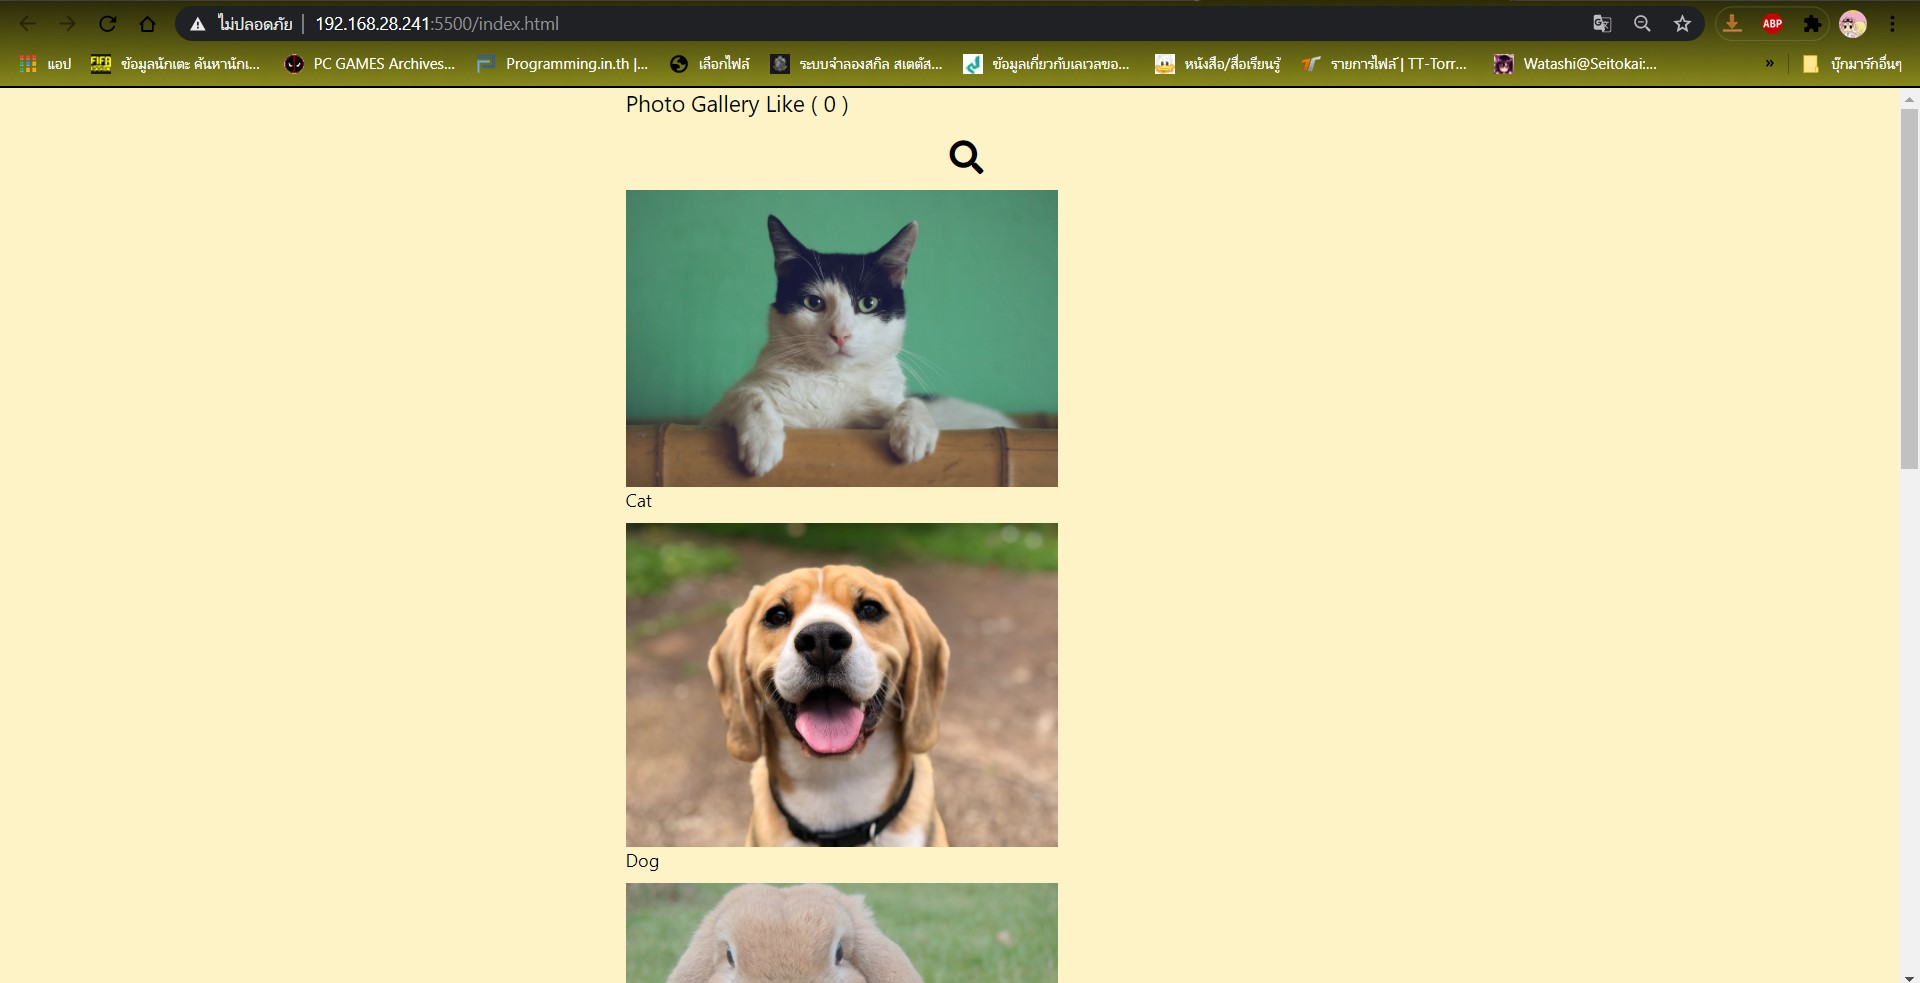
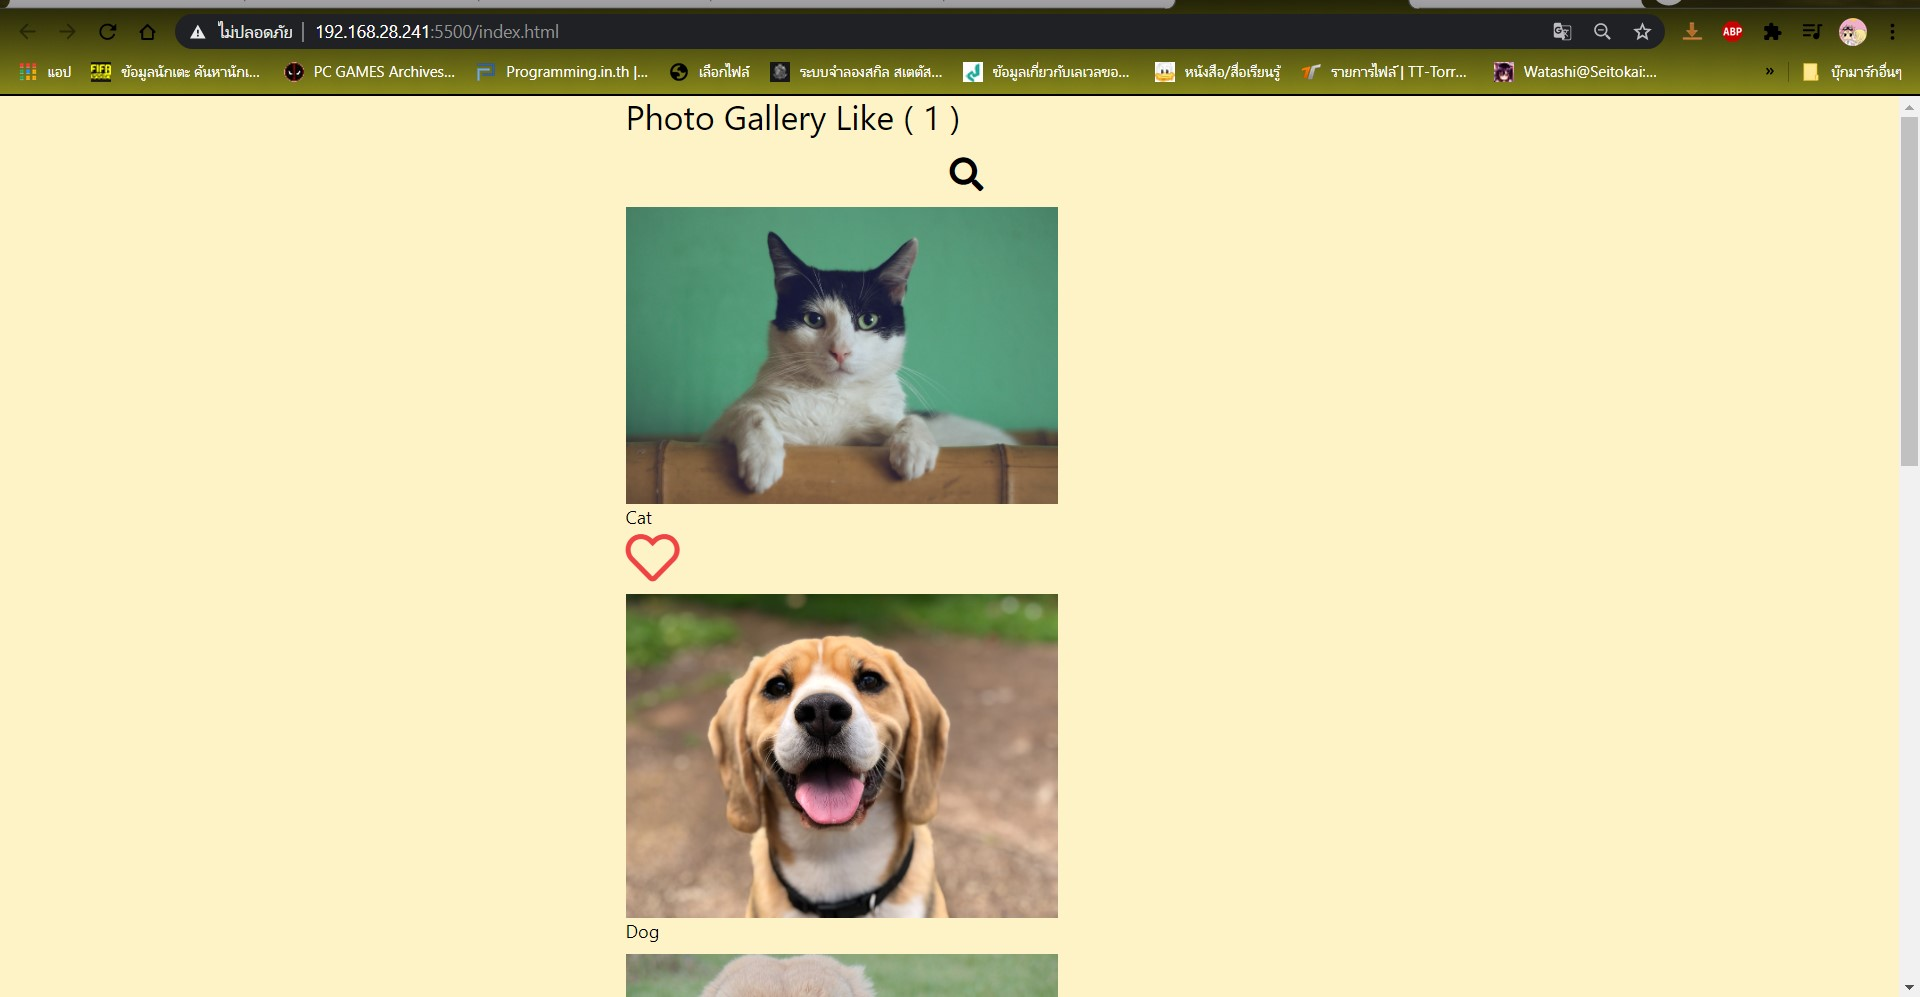
[edit]index,preview

Changed region(s): [[0.0, 0.0, 1.0, 1.0]]

diff --git a/62130500062_groupwork_4/index.html b/62130500062_groupwork_4/index.html
@@ -23,43 +23,43 @@
 </head>
 
 <body id="app" class="w-full bg-yellow-100">
- 
+  <!-- open the picture in photo canvas -->
+  <div >
+    <div v-show="hasView" class="fixed flex justify-center h-screen w-screen top-0 bg-black ">
+      <div class="h-screen m-6 ">
+          <i class="far fa-2x fa-window-close text-white flex-row-reverse cursor-pointer" @click="distoggleView()"></i>
+          <img :src="viewImg" class="h-5/6 p-6 ">
+      </div>
   </div>
-    <div  class="max-w-xl mx-auto space-y-3">
-      <h1 class="text-xl text-start">
+  <!-- Total Photos like -->
+    <div  class="max-w-xl mx-auto space-y-3 ">
+      <h1 class="text-3xl text-start">
         Photo Gallery Like ( {{ photos.filter( t => t.done ).length }} )
       </h1>
+      <!-- text box for searching photos -->
       <span class="material-icons text-3xl cursor-pointer ml-72" :class="{'hidden' :searchbutton  }"><i
           class="fas fa-search" @click="search"></i></span>
       <span :class="{'hidden' : !searchbutton}">
-        <input class="px-2 border-2 border-black mx-2" placeholder="Please enter text for searching photos"
+        <input class="px-2 border-2 border-black mx-2" placeholder="searching photos"
           v-model="text" />
         <button class="mx-2 rouned text-white px-4 py-2 bg-blue-500" @click="search">
           Cancle
         </button>
       </span>
 
-      <div v-show="hasView" class="w-full">
-        <div style="background-color: black; padding: 50px">
-          <span class="far fa-window-close text-white float-right mx-2 rouned px-4 py-2 bg-white-500"
-            @click="distoggleView(photo)">
-          </span>
-
-          <img v-bind:src="viewImg" height="400" width="400" style="align-items: center" />
-        </div>
-      </div>
-
-      <div class="w-96" v-if="searching.length !== 0 ">
+      <!-- Searching photos -->
+      <div class="w-96 " v-if="searching.length !== 0 ">
         <ul>
           <li v-for="(photo,index) in searching" :class="{done: photo.done}">
             <img v-on:click="toggleDone(photo)" @dblclick="toggleView(photo)" v-bind:src="photo.url" />
             <div class="">{{photo.title}}</div>
             <p class="mb-2">
-              <i v-show="photo.done" class="fas fa -2xl fa-heart text-red-500"></i>
+              <i v-show="photo.done" class="far fa-3x fa-heart text-red-500"></i>
             </p>
           </li>
         </ul>
       </div>
+      <!-- Show no photos -->
       <div v-else class="mt-10 bg-white shadow-lg rounded w-full mx-auto px-auto py-5 flex justify-center">
         <h2 class="mb-2 text-2xl font-bold text-gray-800">No Photos.</h2>
       </div>
